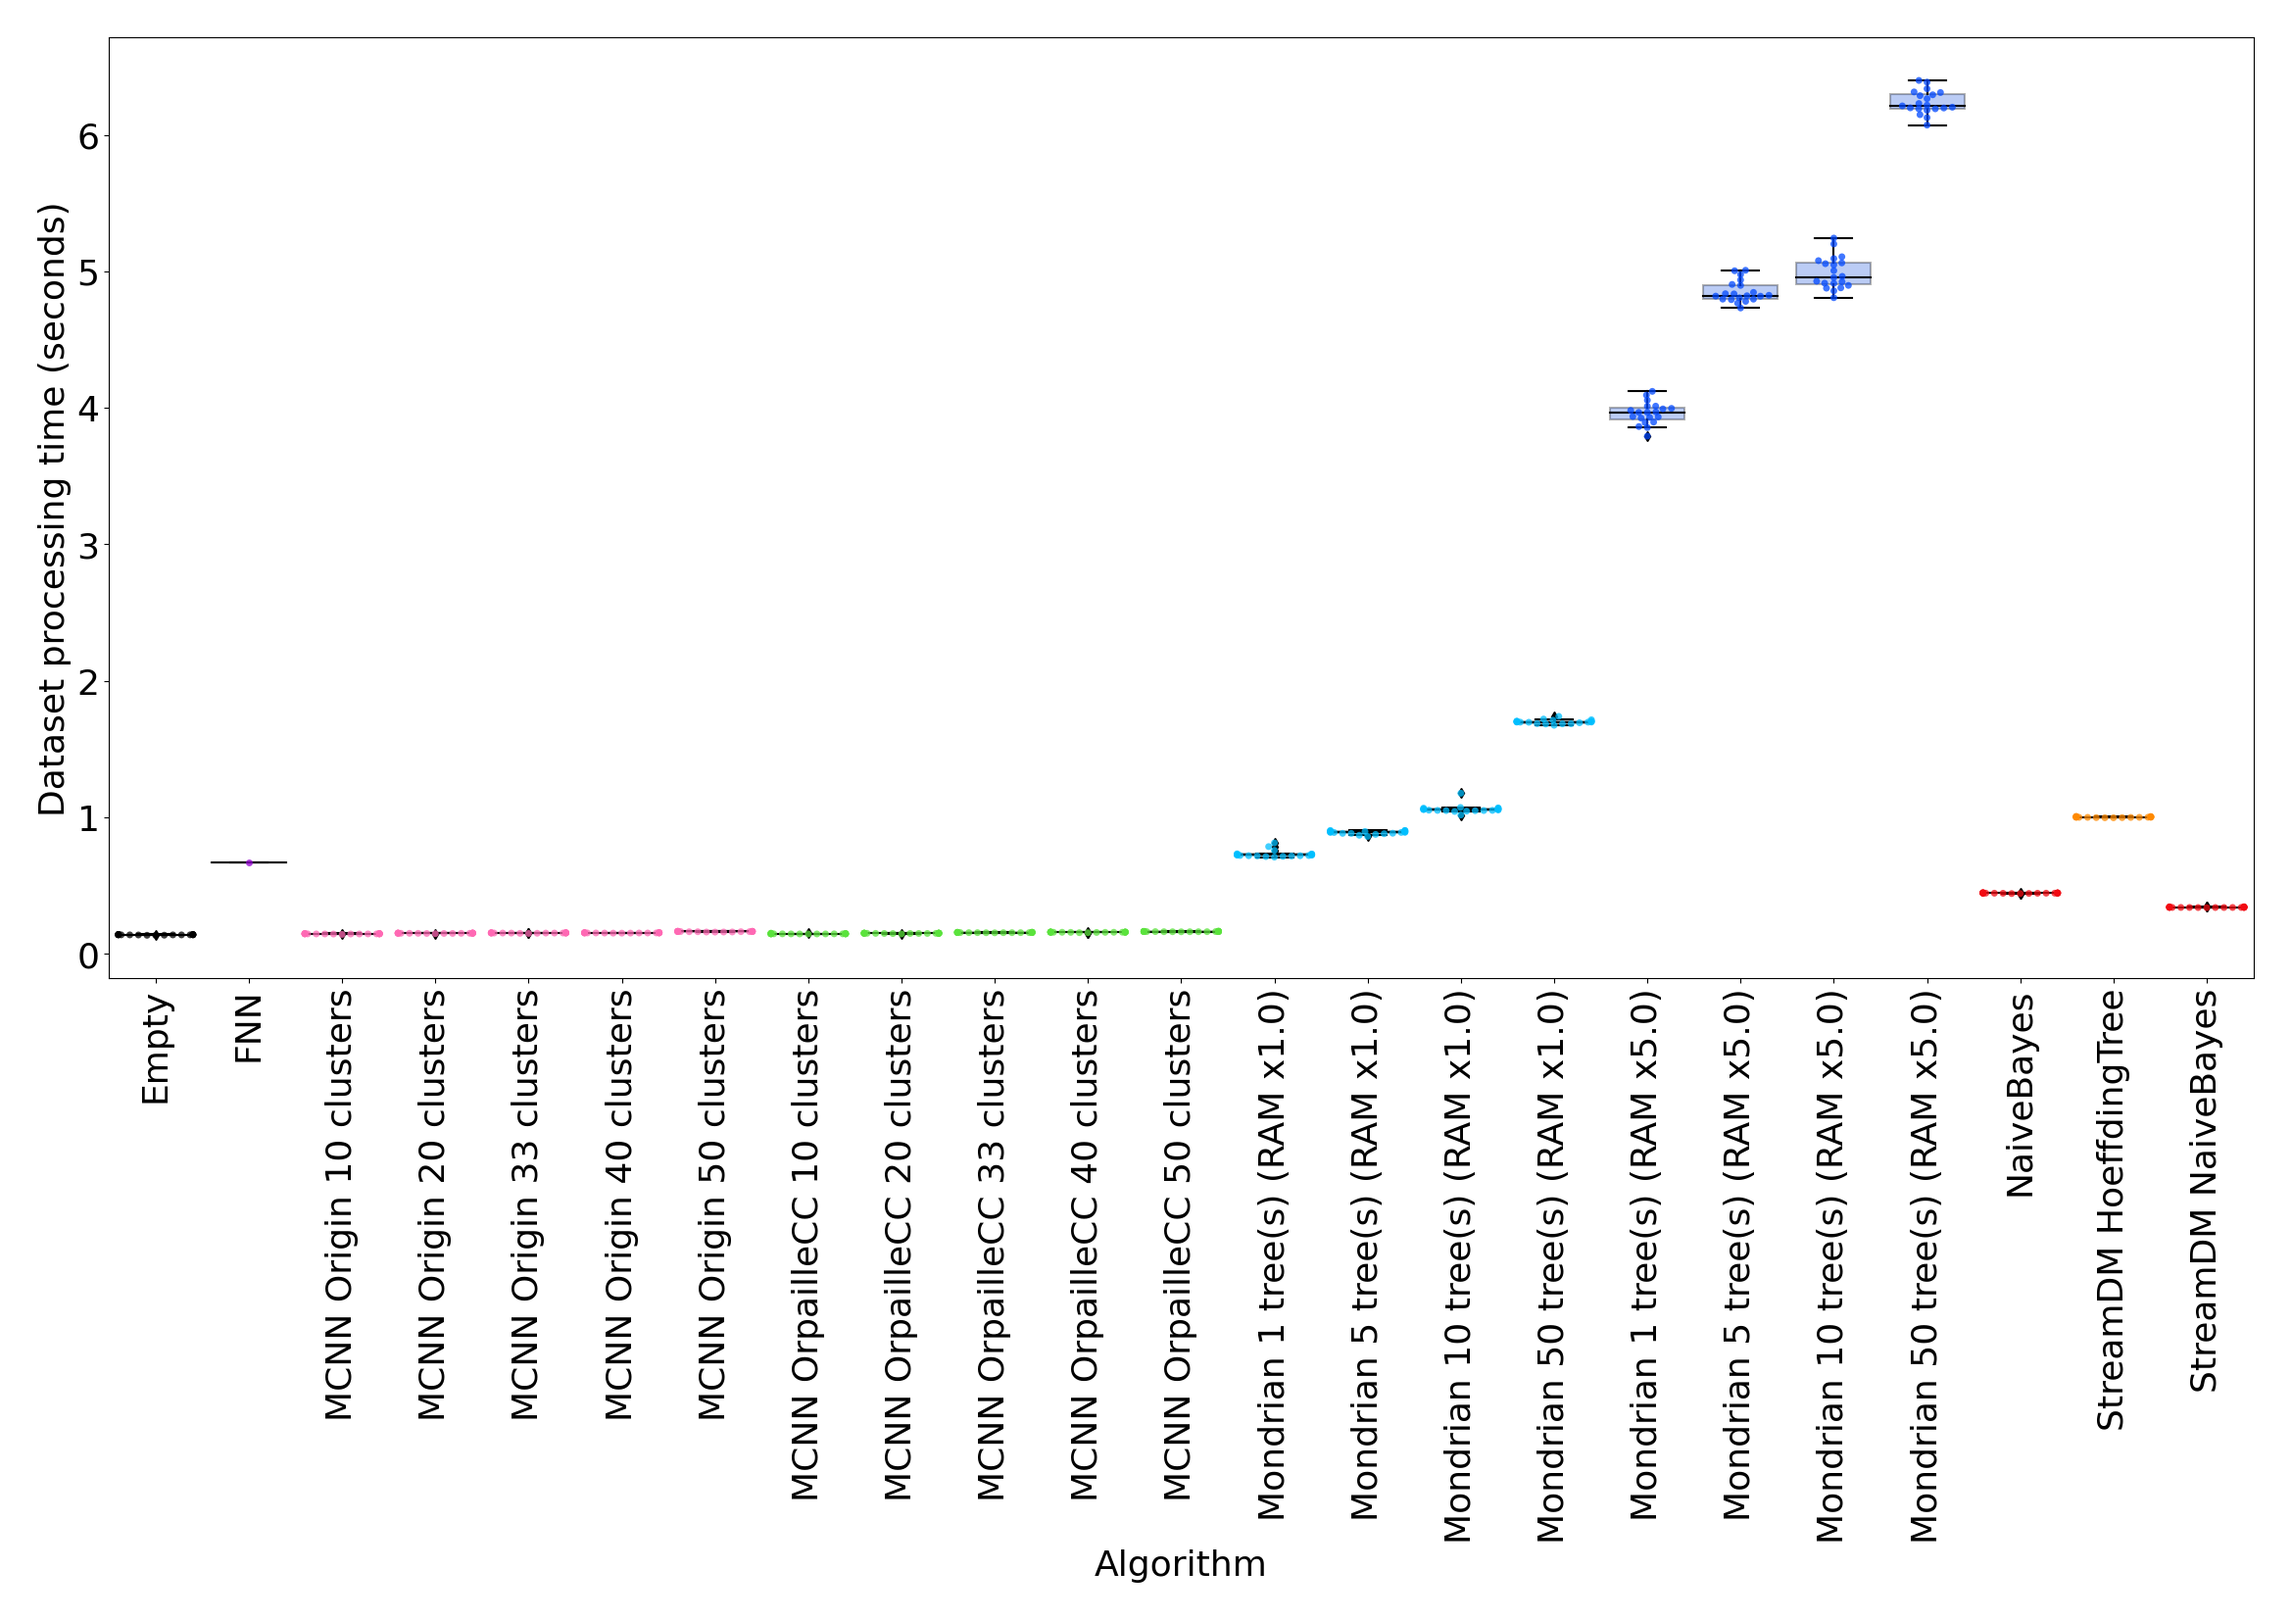
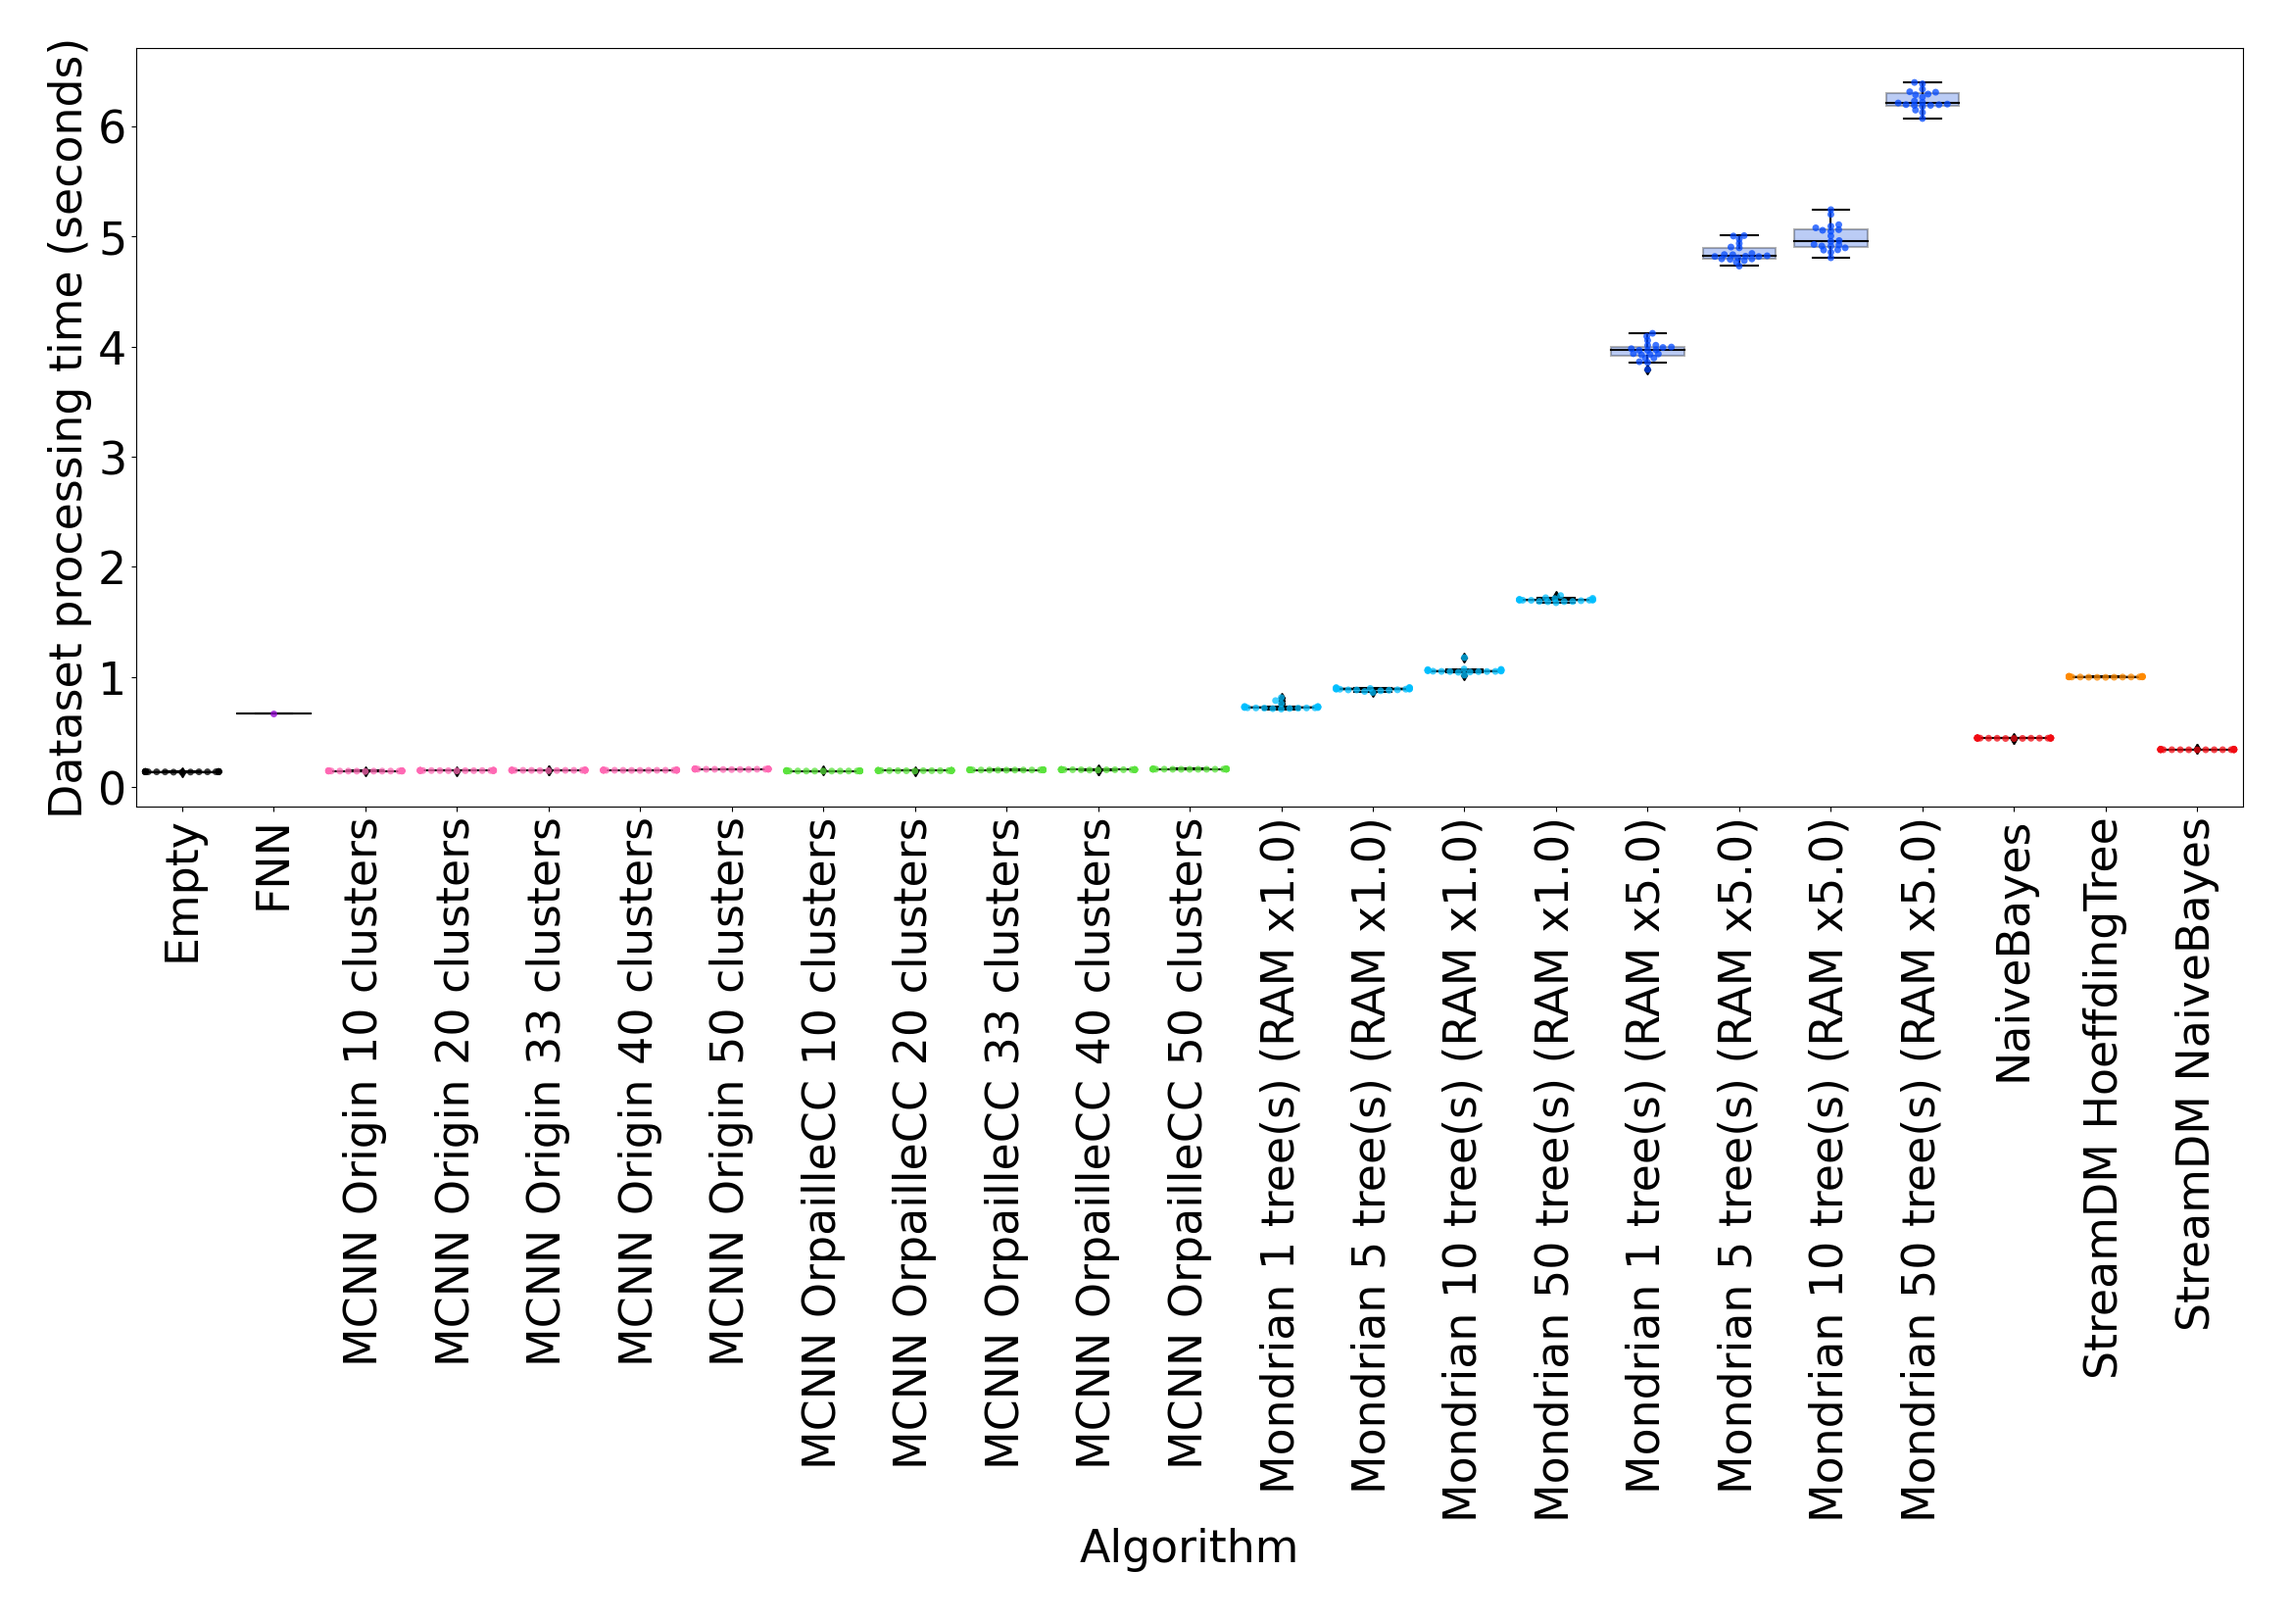
Modification for sensors.

diff --git a/paper/results.tex b/paper/results.tex
@@ -1,6 +1,6 @@
-\begin{figure*}
+\begin{figure}
 	\centering
-	\includegraphics[width=0.8\linewidth]{figures/legend.png}
+	\includegraphics[width=\linewidth]{figures/legend.png}
 	\begin{subfigure}[t]{.49\linewidth}
 		\includegraphics[width=\linewidth]{figures/results/banos_6_f1_std.png}
 		\caption{\banosdataset}
@@ -10,7 +10,8 @@
 		\includegraphics[width=\linewidth]{figures/results/drift_6_f1_std.png}
 		\caption{\banosdataset (with Drift)}
 		\label{fig:f1-drift}
-	\end{subfigure}\\
+	\end{subfigure}
+		\vskip 0.1cm
 	\begin{subfigure}[t]{.49\linewidth}
 		\includegraphics[width=\linewidth]{figures/results/dataset_1_f1_std.png}
 		\caption{Hyperplane (MOA)}
@@ -20,7 +21,8 @@
 		\includegraphics[width=\linewidth]{figures/results/dataset_2_f1_std.png}
 		\caption{RandomRBF (MOA)}
 		\label{fig:f1-dataset_2}
-	\end{subfigure}\\
+	\end{subfigure}
+		\vskip 0.1cm
 	\begin{subfigure}[t]{.49\linewidth}
 		\includegraphics[width=\linewidth]{figures/results/dataset_3_f1_std.png}
 		\caption{RandomTree (MOA)}
@@ -31,18 +33,18 @@
 		\caption{\recofitdataset}
 		\label{fig:f1-recofit}
 	\end{subfigure}
+		\vskip 0.1cm
 	\caption{F1 scores for the six datasets (average over 20 repetitions).
 		The horizontal dashed black line indicates the offline \knn F1
 		score (the value of k was obtained by grid search in [2, 20]). The
 		blue shades represent a $\pm\sigma$ interval of the \mondrianforest
 		classifier across repetitions.}
 	\label{fig:f1}
-\end{figure*}
+\end{figure}
 
 \section{Results}
 This section presents our benchmark results and the corresponding
 hyperparameter tunning experiments.
-
 
 \subsection{Overall classification performance}
 
@@ -211,10 +213,19 @@ of 0.68, which is higher than the performance of the \naivebayes classifier.
 %structure on other datasets.
 
 \begin{figure}
-		\includegraphics[width=\linewidth]{figures/results/banos_3_watt.png}
+	\centering
+	\begin{subfigure}[t]{.49\linewidth}
+		\includegraphics[width=\linewidth]{figures/results/banos_6_watt.png}
 		\caption{Power usage for the \banosdataset dataset. Results are similar across
 		datasets.}
 		\label{fig:power}
+	\end{subfigure}
+	\begin{subfigure}[t]{.49\linewidth}
+	\includegraphics[width=\linewidth]{figures/results/banos_6_runtime.png}
+	\caption{Runtime with the \banosdataset dataset (20 repetitions). Runtime
+		results are similar across datasets.}
+	\label{fig:runtime}
+	\end{subfigure}
 \end{figure}
 \subsection{Power}
 \label{sec:result-power}
@@ -252,13 +263,6 @@ We observe that the runtime of \streamdmcpp's \naivebayes is comparable to
 OrpailleCC's. This suggests that the performance of the two libraries is
 similar, which justifies our comparison of \hoeffdingtree and \mondrianforest.
 
-\begin{figure}
-	\includegraphics[width=\linewidth]{figures/results/banos_6_runtime.png}
-	\caption{Runtime with the \banosdataset dataset (20 repetitions). Runtime
-		results are similar across datasets.}
-	\label{fig:runtime}
-\end{figure}
-
 \subsection{Memory}
 \label{sec:result-memory}
 Figure~\ref{fig:memory} shows the evolution of the memory footprint for the
@@ -292,5 +296,58 @@ makes its memory footprint constant.
 	\label{fig:memory}
 \end{figure}
 
+
+\subsection{Hyperparameter tuning}
+
+Figure~\ref{fig:mcnn-tuning-error} shows the impact of the error threshold
+in the \mcnn classifiers with different cluster counts. The error
+threshold of \mcnn has little impact on classification performance. For
+20 and 40 clusters, the best-performing threshold is either 2 or 4, meaning
+that a cluster may do 2 or 4 errors before being split. For 10 clusters,
+all error thresholds perform equally.
+
+\begin{figure}
+  \includegraphics[width=\linewidth]{figures/calibration_mcnn.png}
+	\caption{Error threshold tuning of \mcnn with the first subject of
+		\banosdataset dataset. Error threshold in parenthesis.}
+	\label{fig:mcnn-tuning-error}
+\end{figure}
+
+Figure~\ref{fig:mondrian-tuning} shows the impact of the \mondrianforest hyperparameters on
+the classification performance. 
+The base count hyperparameter (Figure~\ref{fig:mondrian-base-count}) has a
+very substantial impact on classification performance; the smallest value
+(0.0) results in the best performance. On the contrary, the
+budget hyperparameter (Figure~\ref{fig:mondrian-budget}) only has a
+moderate impact on classification; the best value is 0.2. Finally, the discount hyperparameter
+(Figure~\ref{fig:mondrian-discount}) has a negligible impact on the
+performance; the best-performing value is 0.1.
+
+\begin{figure}
+	 \centering
+	 \begin{subfigure}[b]{0.49\textwidth}
+		\centering
+		\includegraphics[width=\textwidth]{figures/calibration_mondrian_base.png}
+		\caption{Impact of the base count with 10 trees, a budget of $1.0$, and a discount factor of $0.2$.} 
+		\label{fig:mondrian-base-count}
+	\end{subfigure}
+	\hfill
+	 \begin{subfigure}[b]{0.49\textwidth}
+		 \centering
+		 \includegraphics[width=\textwidth]{figures/calibration_mondrian_lifetime.png}
+		 \caption{Impact of the budget with 10 trees, a base count of $0.1$, and discount factor of $0.2$.}
+		 \label{fig:mondrian-budget}
+	 \end{subfigure}
+	 \hfill
+		\vskip 0.15cm
+	 \begin{subfigure}[b]{0.49\textwidth}
+		 \centering
+		 \includegraphics[width=\textwidth]{figures/calibration_mondrian_discount.png}
+		 \caption{Impact of the discount factor with 10 trees, a budget of $1.0$, and a base count of $0.1$.}
+		 \label{fig:mondrian-discount}
+	 \end{subfigure}
+		\caption{Hyperparameters tuning for Mondrian with the first subject of \banosdataset dataset.}
+		\label{fig:mondrian-tuning}
+\end{figure}
 
 % vim: tw=80 ts=2

diff --git a/makefile.py b/makefile.py
@@ -523,8 +523,8 @@ def print_results(output, output_runs, models, output_directory="."):
     print(colors)
     print(markers)
     print(styles)
-    plt.rcParams.update({'font.size': 26})
-    list_datastets = ['dataset_2', 'drift_3', 'banos_3', 'recofit_3', 'dataset_1', 'dataset_2', 'dataset_3', 'drift_6', 'banos_6', 'recofit_6']
+    plt.rcParams.update({'font.size': 33})
+    list_datastets = ['banos_6', 'drift_3', 'banos_3', 'recofit_3', 'dataset_1', 'dataset_2', 'dataset_3', 'drift_6', 'dataset_2', 'recofit_6']
     for dataset_name in list_datastets:
         print('Dataset: ' + dataset_name)
         print('\t- Energy')
@@ -649,7 +649,6 @@ def print_results(output, output_runs, models, output_directory="."):
         print('\t- Memory')
         fig = plt.figure(figsize=(23.38582, 16.53544))
         for name, color, marker, style in zip(names, colors, markers, styles):
-
             if 'StreamDM' in name:
                 base = [x for x in daty[daty.fullname == 'StreamDM NaiveBayes']['memory']]
             else:
@@ -658,7 +657,7 @@ def print_results(output, output_runs, models, output_directory="."):
                 y = [x[0] - x[1] for x in zip(daty[daty.fullname == name]['memory'], base)]
                 plt.plot(daty[daty.fullname == name]['element_count'], y, color=color, marker=marker, linestyle=style, markevery=0.1, markersize=15, label=name)
         if dataset_name == 'banos_3' or dataset_name == 'banos_6':
-            plt.legend(prop={"size":26}, ncol=3)
+            plt.legend(prop={"size":24}, ncol=3)
         plt.ylabel("KB")
         plt.xlabel("Element")
         plt.tight_layout()
@@ -692,7 +691,7 @@ def print_calibration(output, output_runs, models, output_directory="."):
             return True
         return False
 
-    plt.rcParams.update({'font.size': 26})
+    plt.rcParams.update({'font.size': 43})
     dataset_name = "processed_subject1_ideal_shuf.log"
 
     daty = output[output.file.str.contains(dataset_name)]
@@ -705,7 +704,7 @@ def print_calibration(output, output_runs, models, output_directory="."):
     for model_id in model_ids:
         sub = daty[daty.model_id == model_id]
         plt.plot(sub['element_count'], sub['f1'], color=hashStringToColor(str(model_id)), label='Mondrian ' + models[str(model_id)]['lifetime'])
-    plt.legend(prop={"size":25}, ncol=3)
+    plt.legend(prop={"size":40}, ncol=3)
     plt.ylim(0,1)
     plt.ylabel("F1")
     plt.xlabel("Element")
@@ -723,7 +722,7 @@ def print_calibration(output, output_runs, models, output_directory="."):
     for model_id in model_ids:
         sub = daty[daty.model_id == model_id]
         plt.plot(sub['element_count'], sub['f1'], color=hashStringToColor(str(model_id)), label='Mondrian ' + models[str(model_id)]['discount'])
-    plt.legend(prop={"size":25}, ncol=3)
+    plt.legend(prop={"size":40}, ncol=3)
     plt.ylim(0,1)
     plt.ylabel("F1")
     plt.xlabel("Element")
@@ -741,7 +740,7 @@ def print_calibration(output, output_runs, models, output_directory="."):
     for model_id in model_ids:
         sub = daty[daty.model_id == model_id]
         plt.plot(sub['element_count'], sub['f1'], color=hashStringToColor(str(model_id)), label='Mondrian ' + models[str(model_id)]['base'])
-    plt.legend(prop={"size":25}, ncol=3)
+    plt.legend(prop={"size":40}, ncol=3)
     plt.ylim(0,1)
     plt.ylabel("F1")
     plt.xlabel("Element")
@@ -761,7 +760,7 @@ def print_calibration(output, output_runs, models, output_directory="."):
         for model_id in model_ids:
             sub = daty[daty.model_id == model_id]
             plt.plot(sub['element_count'], sub['f1'], color=hashStringToColor(str(model_id)), label='MCNN ' + cluster_count + ' clusters (' + models[str(model_id)]['error_threshold'] + ')', marker=markers[cluster_count], markevery=0.1, markersize=15)
-    plt.legend(prop={"size":25}, ncol=3)
+    plt.legend(prop={"size":28}, ncol=3)
     plt.ylim(0,1)
     plt.ylabel("F1")
     plt.xlabel("Element")
@@ -929,6 +928,7 @@ if len(sys.argv) > 1:
     if sys.argv[1] == "latex":
         latex()
     if sys.argv[1] == "process":
+        directory = "results_9/"
         directory = "calibration_6/"
         output, output_runs, models = process_output(directory + "output", directory + "output_runs", directory + "models.csv")
         # print_results(output[output.element_count%50 == 0],  output_runs, models)

diff --git a/paper/paper.tex b/paper/paper.tex
@@ -1,4 +1,4 @@
-\documentclass[journal,article,submit,moreauthors,pdftex]{Definitions/mdpi} 
+\documentclass[sensors,article,submit,moreauthors,pdftex]{Definitions/mdpi} 
 \usepackage{graphicx}
 \usepackage{hyperref}
 \usepackage{url}
@@ -6,8 +6,8 @@
 \usepackage{xcolor}
 \usepackage{ulem} % provides command 'uwave' used in command 'english'
 \usepackage{tabularx}
-\usepackage{caption}
-\usepackage{subcaption}
+\usepackage[font=small,skip=0pt]{caption}
+\usepackage[font=small,skip=0pt]{subcaption}
 \usepackage{lscape}
 \usepackage{float}
 \usepackage{tikz}
